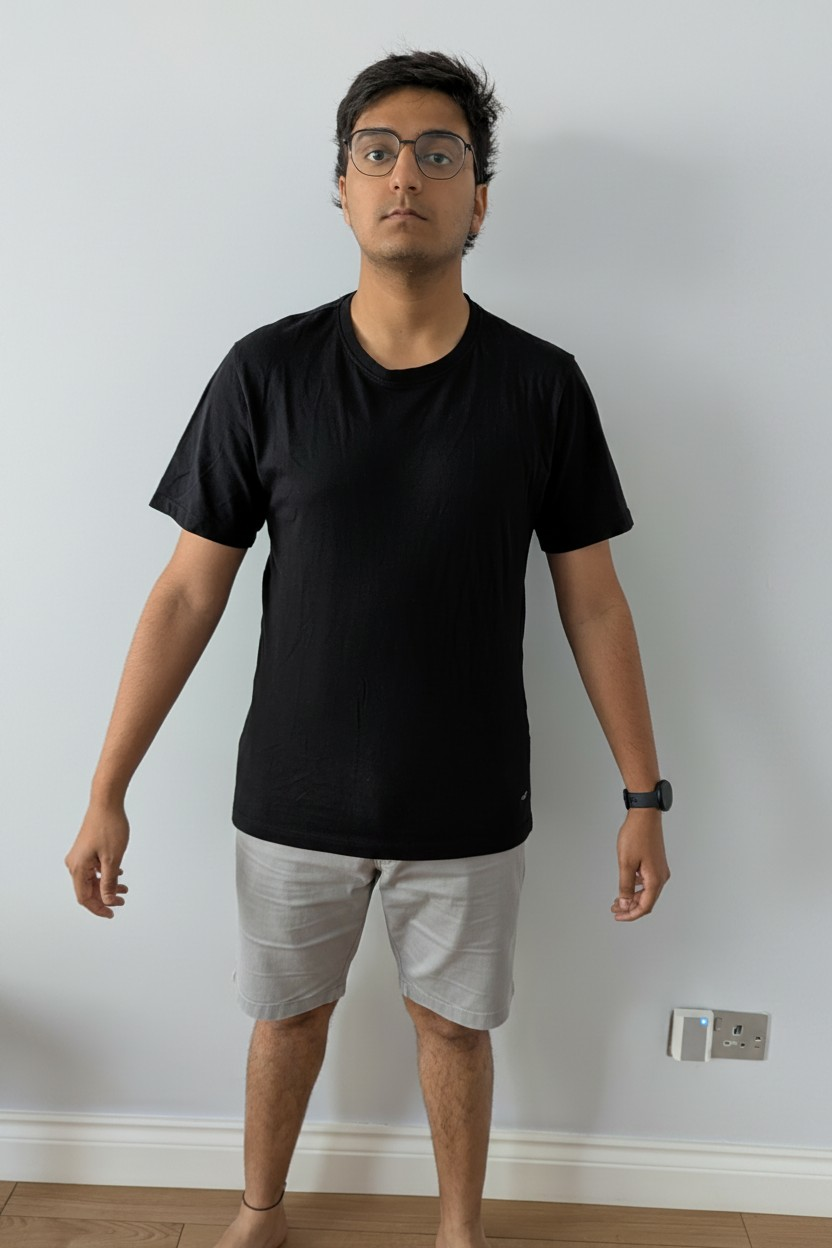
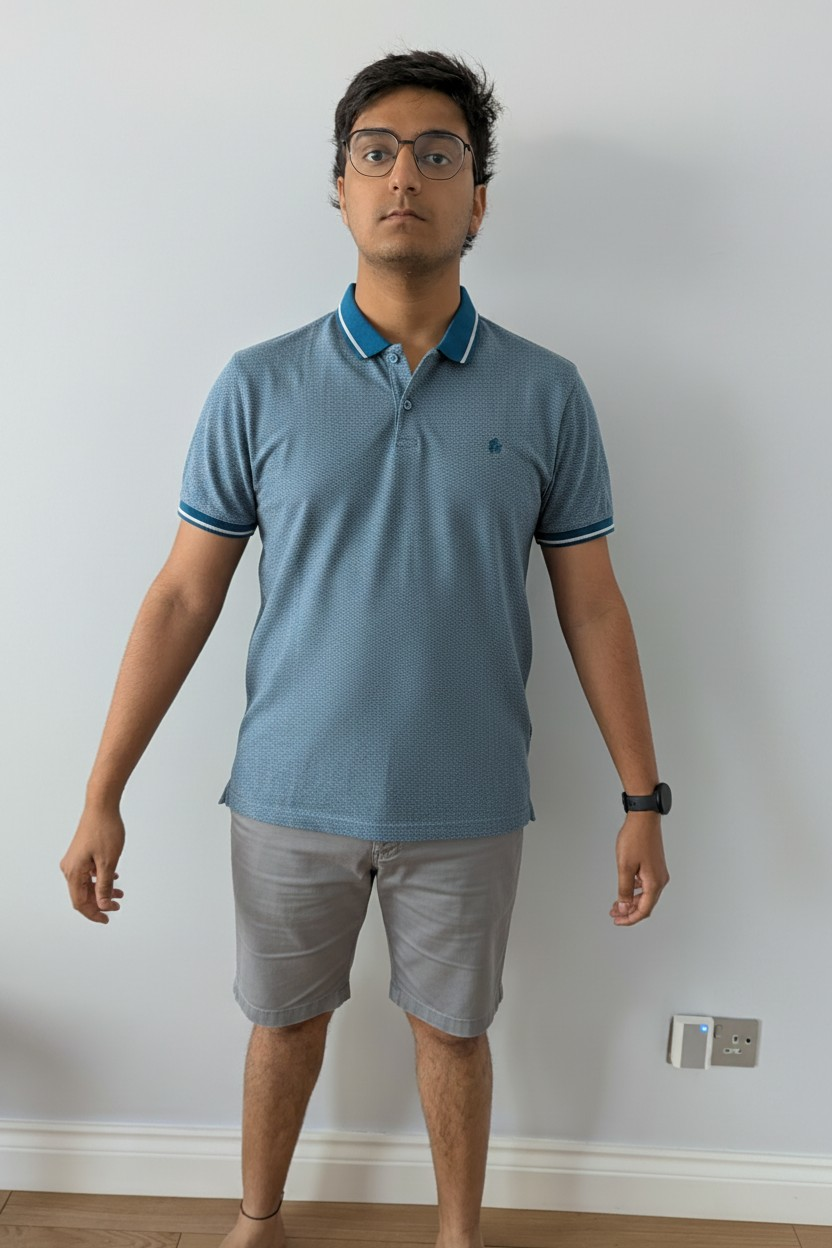
Changed prompt for better image generation

diff --git a/image_generation.py b/image_generation.py
@@ -74,28 +74,99 @@ def generateBaseOutfit(images, recommendation, filename):
     #mainTop = data["primary_outfit"]["top"]
     #mainBottoms = data["primary_outfit"]["bottom"]
     prompt = f"""
-            Treat this as an IMAGE EDIT, not a new image generation.
+            This is an IMAGE EDIT task.
 
-            The first image is the ONLY image containing the person to edit. The first image is the source image and must remain unchanged except for replacing the clothing.
+            Image 1 is the source image. Edit this image only.
 
-            The identity in the first image is locked. Recreate the EXACT same person. Do NOT generate a new person. Do NOT change the person's face, hairstyle, facial features, age, gender, skin tone, body shape, height, pose, camera angle, background, lighting or accessories.
+            Images 2, 3 and any subsequent images are clothing reference images only. They are NOT identity references and must only be used to recreate the garments.
 
-            The remaining images are CLOTHING REFERENCE IMAGES ONLY. They are NOT identity references and must NEVER influence the person's appearance. Use them ONLY to copy the garments.
+            OBJECTIVE
 
-            The second image is the reference for the top. Replace the person's existing top with the exact garment shown in the second image, which is a {top}. Match the garment's colour, shape, length, fit and styling exactly to the reference image. Do not add rolled cuffs, folded hems, rolled-up sleeves, turned-up trouser legs, tucks, colour changes, patterns or other styling details that are not present in the reference image. Only add the minimal natural fabric creasing necessary for the garment to be realistically worn by the person.
+            Replace the person's clothing in Image 1 with the garments shown in the clothing reference images while keeping everything else identical.
 
-            The third image is the reference for the bottom. Replace the person's existing bottom with the exact garment shown in the third image, which is {bottom}. Match the garment's colour, shape, length, fit and styling exactly to the reference image. Do not add rolled cuffs, folded hems, rolled-up sleeves, turned-up trouser legs, tucks, colour changes, patterns or other styling details that are not present in the reference image. Only add the minimal natural fabric creasing necessary for the garment to be realistically worn by the person.
+            PRIORITY 1 – PRESERVE THE PERSON
+
+            The person in Image 1 is the exact person who must appear in the output.
+
+            Do NOT change:
+            - face
+            - hairstyle
+            - facial features
+            - skin tone
+            - age
+            - gender
+            - body shape
+            - height
+            - pose
+            - expression
+            - accessories
+            - shoes
+            - background
+            - lighting
+            - camera angle
+            - framing
+
+            Only the clothing may change.
+
+            PRIORITY 2 – RECREATE THE GARMENTS EXACTLY
+
+            Image 2 is the top.
+
+            Replace the person's existing top with the exact garment shown in Image 2.
+
+            Image 3 is the bottom.
+
+            Replace the person's existing bottoms with the exact garment shown in Image 3.
+
+            If additional clothing reference images are supplied (such as a jacket), replace the corresponding clothing item using those references.
+
+            For every garment, preserve exactly:
+            - colour
+            - fit
+            - length
+            - cut
+            - style
+            - logos
+            - graphics
+            - stitching
+            - pockets
+            - zips
+            - cuffs
+            - hems
+            - fabric texture
+
+            Do not invent or remove any garment details. Don't add any folds or tuck in the t-shirt!
+
+            Colour accuracy is mandatory. Do not substitute a different colour even if it appears more realistic.
+
+            PRIORITY 3 – REPLACE, DO NOT BLEND
+
+            Completely remove the person's original clothing.
+
+            Do not blend, partially preserve or combine the original clothing with the reference garments.
+
+            The finished outfit must consist only of the garments shown in the reference images.
+
+            PRIORITY 4 – PHOTOREALISM
+
+            Produce a realistic full-body photograph.
+
+            The garments should naturally fit the person's body with only the minimal wrinkles caused by normal wear.
+
+            Do not add unnecessary folds, rolled sleeves, rolled hems, tucks or styling that is not present in the reference images.
+
+            FINAL CHECK
+
+            Before producing the final image, verify that:
+
+            ✓ The person is identical to Image 1.
+            ✓ The top exactly matches Image 2.
+            ✓ The bottoms exactly match Image 3.
+            ✓ Any additional garments exactly match their reference images.
+            ✓ Only the clothing has changed.
             """
-   
-    prompt += """
-            Completely remove the person's original clothing. Do not preserve, blend or mix any part of the original garments with the new garments. Replace them entirely with the clothing shown in the reference images.
+    
 
-            Recreate the garments as faithfully as possible. Do not invent details. Do not add folds, rolled sleeves, cuffs or other modifications that are not present in the reference images.
-
-            Produce a photorealistic full-body photograph showing the person's entire body from head to toe, including both shoes and both feet. Preserve the original framing and composition exactly. Do not crop, zoom, reposition or change the camera distance.
-
-            IMPORTANT: Only the clothing may change. Everything else must remain IDENTICAL to the first image. The output must clearly depict the exact same person as the first image. Do not generate a new person for this picture, the person should be the exact same as the person depicted in the first image
-            """
     postImage = requests.post( # Post used for editing image
         "https://gen.pollinations.ai/v1/images/edits",
         headers = {

diff --git a/clothing_recommendation.py b/clothing_recommendation.py
@@ -49,7 +49,7 @@ def generateLLMResponse(weather, location, clothes, events):
               "confidence": 0
             }
           }"""
-    content = f"Tomorrow I will be in {location}. Here is the weather tomorrow in {location} : {weather}. Here is a list of the clothes that I own : {clothes}. Here are the events that I have today {events}. Based on this, give me 2 outfit recommendations using the clothes that I have - 1 outfit that would suit the weather conditions and the events I have tomorrow perfectly, and 1 backup option. If necessary, I can pack a bag with another set of clothes if an event I have requires a change of clothes, but don't include multiple outfit changes - I can only take 1 bag with 1 outfit inside! The colour of the clothing should be considered when making a decision - both the top and bottom ideally shouldn't be the same unless required. Give me a confidence score out of 10 for both of these options. Don't add extra details about the clothes, only use the details that are provided. Return your response in a JSON format like this: {jsonFormat}. Return only the JSON object. Don't include markdown or any explanations!"
+    content = f"Tomorrow I will be in {location}. Here is the weather tomorrow in {location} : {weather}. Consider the weather throughout the entire day. Prioritise the warmest temperatures and the conditions during normal daytime hours. Do not recommend a jacket solely because brief rain appears in the forecast if temperatures remain above 22°C.. Here is a list of the clothes that I own : {clothes}. Here are the events that I have today {events}. Based on this, give me 2 outfit recommendations using the clothes that I have - 1 outfit that would suit the weather conditions and the events I have tomorrow perfectly, and 1 backup option. If necessary, I can pack a bag with another set of clothes if an event I have requires a change of clothes, but don't include multiple outfit changes - I can only take 1 bag with 1 outfit inside! The colour of the clothing should be considered when making a decision - both the top and bottom ideally shouldn't be the same unless required. Give me a confidence score out of 10 for both of these options. Don't add extra details about the clothes, only use the details that are provided. Return your response in a JSON format like this: {jsonFormat}. Return only the JSON object. Don't include markdown or any explanations!"
     
     MAX_ATTEMPTS = 7
 
